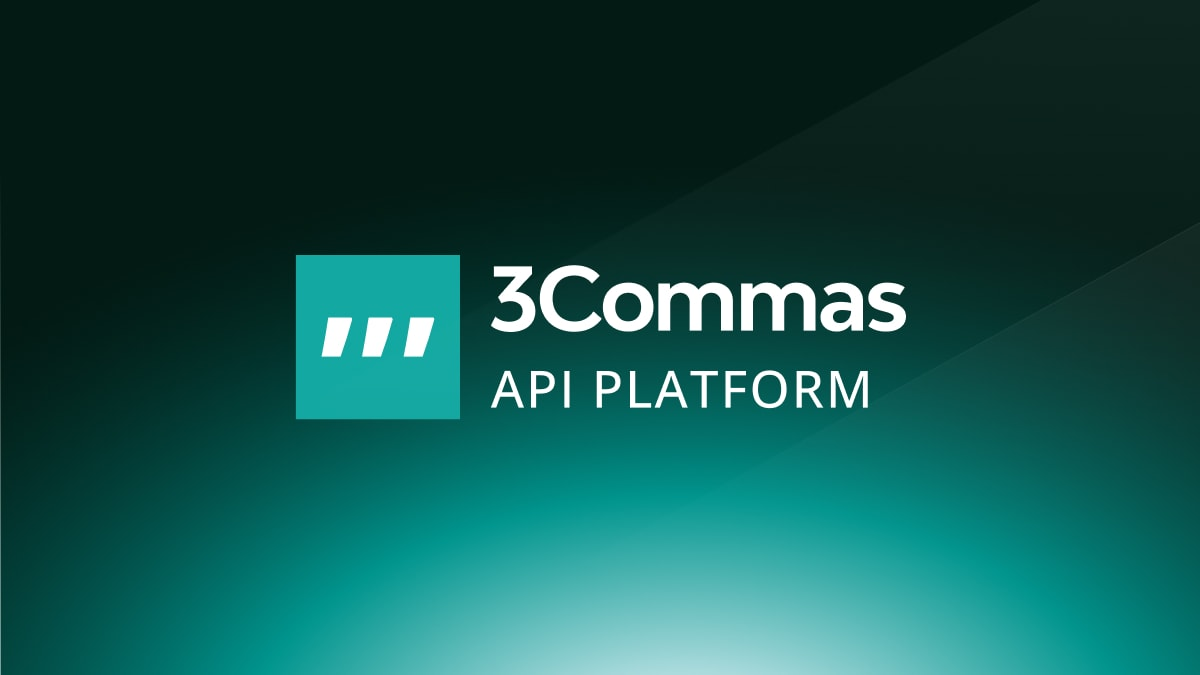
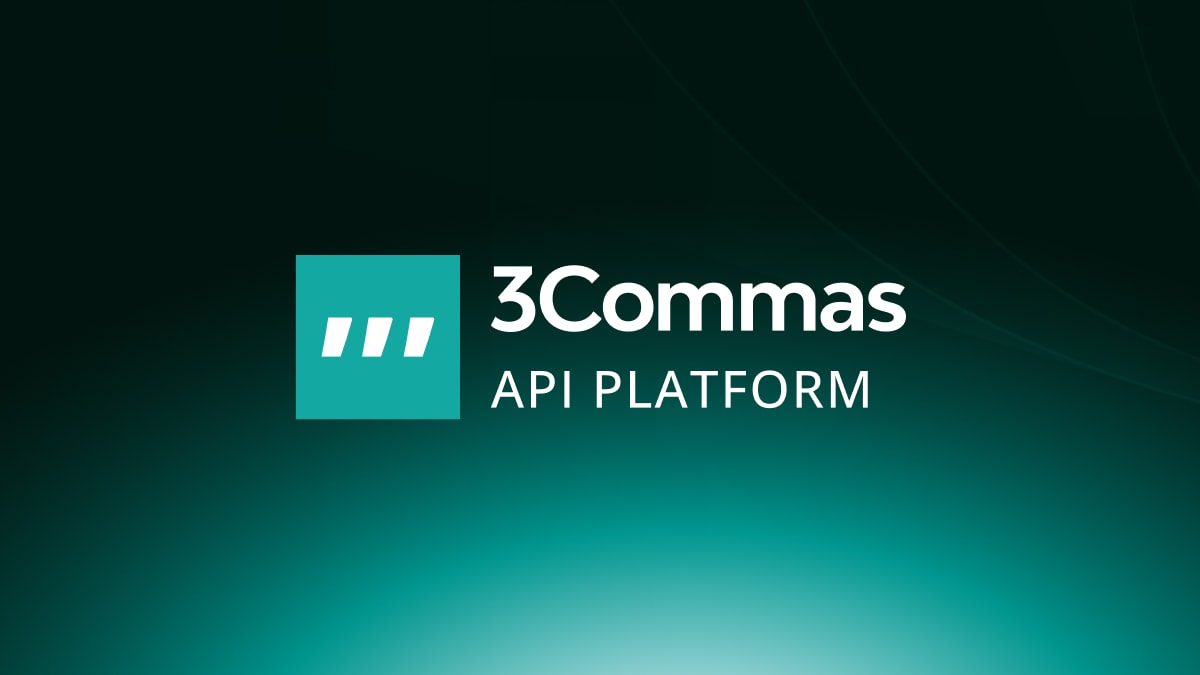
fix: katex vulnerability
* feat: change production url

* fix: apply active toc link highlighting on build

* fix: layout shift on scroll

* feat: update og image

* fix: layout shift on scroll

* fix: update titles

* fix: katex vulnerability

* feat: update og image

Changed region(s): [[0.3083, 0.7467, 0.8325, 1.0]]

diff --git a/src/components/ScrollStylingManager/ScrollStylingManager.tsx b/src/components/ScrollStylingManager/ScrollStylingManager.tsx
@@ -1,73 +1,120 @@
-import React, { useEffect } from "react";
+import { useEffect, useState } from "react";
+
+const excludedRoutes = [
+  // general-information
+  "/general-information",
+  "/general-information/overview",
+  "/general-information/security-and-permission-types",
+  "/general-information/how-to-start",
+  "/general-information/get-an-api-key",
+  "/general-information/how-to-create-an-rsa-key-pair",
+  "/general-information/signing-a-request-using-rsa",
+  "/general-information/signing-a-request-using-hmac-sha256",
+  "/general-information/generating-signature-hmac-sha256",
+  "/general-information/dates-and-times",
+  "/general-information/errors",
+  "/general-information/limits",
+  // account
+  "/account/",
+  "/account/account-entity",
+  // market-data
+  "/market-data/",
+  // dca-bot
+  "/dca-bot/",
+  "/dca-bot/dca-bot-entity",
+  // deals
+  "/dca-bot/deals/",
+  "/dca-bot/deals/deal-entity",
+  // grid-bot
+  "/grid-bot/",
+  "/grid-bot/grid-bot-entity",
+  // smart-trade
+  "/smart-trade/",
+  "/smart-trade/smart-trade-entity",
+  // trades
+  "/smart-trade/trades/",
+  "/smart-trade/trades/trade-entity",
+];
 
 const ScrollStylingManager = () => {
-  useEffect(() => {
-    const excludedRoutes = [
-      "/account/",
-      "/account/account-entity",
-      "/dca-bot",
-      "/dca-bot/deals/",
-      "/dca-bot/dca-bot-entity",
-      "/dca-bot/deals/deal-entity",
-      "/general-information",
-      "/general-information/dates-and-times",
-      "/general-information/errors",
-      "/general-information/get-an-api-key",
-      "/general-information/how-to-create-an-rsa-key-pair",
-      "/general-information/how-to-start",
-      "/general-information/overview",
-      "/general-information/limits",
-      "/general-information/security-and-permission-types",
-      "/general-information/signing-a-request-using-hmac-sha256",
-      "/general-information/signing-a-request-using-rsa",
-      "/grid-bot",
-      "/grid-bot/grid-bot-entity",
-      "/market-data",
-      "/smart-trade/",
-      "/smart-trade/smart-trade-entity",
-      "/smart-trade/trades/trade-entity",
-    ];
+  const [endpointEdge, setEndpointEdge] = useState<{
+    edge: number;
+    desktop: boolean;
+  } | null>(null);
 
+  useEffect(() => {
     const handleScroll = () => {
       const isExcluded = excludedRoutes.includes(window.location.pathname);
 
       const breadcrumbs = document.querySelector(".breadcrumbsContainer_Ar0W");
-      const container = document.querySelector(".container_eK_a");
+      const endpoint = document.querySelector(".container_eK_a");
+
       const h1 = document.querySelector(".theme-doc-markdown header h1");
       const header = document.querySelector(".theme-doc-markdown header");
 
-      if (window.scrollY >= 140) {
-        let placeholder = document.querySelector(".placeholder") as HTMLElement;
-        if (!placeholder) {
-          placeholder = document.createElement("div");
-          placeholder.className = "placeholder";
-          placeholder.style.height = "60px";
-          header.appendChild(placeholder);
+      if (
+        (endpoint && endpointEdge === null) ||
+        (endpointEdge !== null &&
+          window.innerWidth >= 1261 !== endpointEdge?.desktop)
+      ) {
+        const rect = endpoint.getBoundingClientRect();
+        setEndpointEdge({
+          edge: Math.max(rect.top - 15, 115),
+          desktop: window.innerWidth >= 1261,
+        });
+      }
+
+      if (
+        (endpointEdge !== null && window.scrollY >= endpointEdge.edge) ||
+        (isExcluded && window.scrollY >= 95)
+      ) {
+        let endpointPlaceholder = document.querySelector(
+          "#endpointPlaceholder",
+        ) as HTMLElement;
+        let headingPlaceholder = document.querySelector(
+          "#headingPlaceholder",
+        ) as HTMLElement;
+
+        if (
+          !endpointPlaceholder &&
+          endpoint &&
+          !isExcluded &&
+          window.innerWidth > 996
+        ) {
+          endpointPlaceholder = endpoint.cloneNode(true) as HTMLElement;
+          endpointPlaceholder.id = "endpointPlaceholder";
+          endpointPlaceholder.classList.add("scrolledClass");
+          header.appendChild(endpointPlaceholder);
         }
-        if (breadcrumbs) breadcrumbs.classList.add("scrolledClass");
-        if (h1) {
+
+        if (!headingPlaceholder && h1 && window.innerWidth > 996) {
+          headingPlaceholder = document.createElement("h1");
+          headingPlaceholder.id = "headingPlaceholder";
+          headingPlaceholder.textContent = h1.textContent || "";
+          headingPlaceholder.dataset.mock = "true";
+
           if (isExcluded) {
-            h1.classList.add("scrolledClassMain");
-            h1.classList.remove("scrolledClass");
-          } else {
-            h1.classList.add("scrolledClass");
-            h1.classList.remove("scrolledClassMain");
+            headingPlaceholder.classList.add("scrolledClassMain");
+            header.appendChild(headingPlaceholder);
+          } else if (!isExcluded && window.innerWidth >= 1920) {
+            headingPlaceholder.classList.add("scrolledClass");
+            header.appendChild(headingPlaceholder);
           }
         }
-        if (!isExcluded && container) {
-          container.classList.add("scrolledClass");
-        }
+
+        if (breadcrumbs) breadcrumbs.classList.add("scrolledClass");
       } else {
-        const placeholder = document.querySelector(".placeholder");
-        if (placeholder) {
-          placeholder.parentElement.removeChild(placeholder);
-        }
+        const endpointPlaceholder = document.querySelector(
+          "#endpointPlaceholder",
+        );
+        const headingPlaceholder = document.querySelector(
+          "#headingPlaceholder",
+        );
+
+        if (endpointPlaceholder) endpointPlaceholder.remove();
+        if (headingPlaceholder) headingPlaceholder.remove();
+
         if (breadcrumbs) breadcrumbs.classList.remove("scrolledClass");
-        if (h1) {
-          h1.classList.remove("scrolledClass");
-          h1.classList.remove("scrolledClassMain");
-        }
-        if (container) container.classList.remove("scrolledClass");
       }
     };
 
@@ -75,7 +122,7 @@ const ScrollStylingManager = () => {
     handleScroll();
 
     return () => window.removeEventListener("scroll", handleScroll);
-  }, []);
+  }, [endpointEdge, window.innerWidth]);
 
   return null;
 };

diff --git a/src/components/HomePageItem/HomePageWrapper.tsx b/src/components/HomePageItem/HomePageWrapper.tsx
@@ -16,7 +16,8 @@ const HomePageWrapper = () => {
       <HomePageItem
         data={{
           title: "DCA Bot",
-          description: "Automate trading on the exchange using a Dollar Cost Averaging (DCA) strategy.",
+          description:
+            "Automate trading on the exchange using a Dollar Cost Averaging (DCA) strategy.",
           icon: "dcaBot",
           link: "/dca-bot",
         }}
@@ -32,7 +33,8 @@ const HomePageWrapper = () => {
       <HomePageItem
         data={{
           title: "Grid Bot",
-          description: "Automate trading strategies by executing a series of buy and sell orders within predefined price ranges.",
+          description:
+            "Automate trading strategies by executing a series of buy and sell orders within predefined price ranges.",
           icon: "gridBot",
           link: "/grid-bot",
         }}
@@ -40,7 +42,8 @@ const HomePageWrapper = () => {
       <HomePageItem
         data={{
           title: "Market Data",
-          description: "Essential information about cryptocurrency exchanges, trading pairs, and market rules.",
+          description:
+            "Essential information about cryptocurrency exchanges, trading pairs, and market rules.",
           icon: "marketData",
           link: "/market-data",
         }}
@@ -48,7 +51,8 @@ const HomePageWrapper = () => {
       <HomePageItem
         data={{
           title: "Smart Trade",
-          description: "Open, manage, and close orders on the exchange with predefined conditions.",
+          description:
+            "Open, manage, and close orders on the exchange with predefined conditions.",
           icon: "smartTrade",
           link: "/smart-trade",
         }}

diff --git a/src/css/custom.css b/src/css/custom.css
@@ -443,11 +443,9 @@ body ul {
   list-style-image: url("/img/bullet.svg");
 }
 
-
 body ul {
   color: var(--text-content-color);
 }
-
 
 body ol {
   list-style: decimal;
@@ -554,6 +552,11 @@ a {
 code {
   font-size: var(--text-emphasis-size) !important;
   border: none;
+  box-shadow: none !important;
+}
+
+.codeBlockContainer_Ckt0 {
+  box-shadow: none !important;
 }
 
 strong {
@@ -580,15 +583,8 @@ main
     .hash-link
   ):not(.tocLink_wfFo) {
   text-decoration: underline !important;
-  color: var(--text-content-color);
-  font-weight: inherit;
-}
-
-main
-  a:not(.home-line):not(.breadcrumbs__link):not(.pagination-link):hover:not(
-    .hash-link
-  ):not(.tocLink_wfFo) {
   color: var(--ifm-heading-color) !important;
+  font-weight: inherit;
 }
 
 p {
@@ -960,6 +956,10 @@ li.menu__list-item > .category-title-hr.titled {
 }
 
 @media (max-width: 996px) {
+  .theme-doc-markdown header {
+    display: none;
+  }
+
   .navbar {
     height: 68px;
   }

diff --git a/src/components/Endpoint/Endpoint.tsx b/src/components/Endpoint/Endpoint.tsx
@@ -56,8 +56,10 @@ export function Endpoint({ url, method, permissions, endpointsList }: Props) {
           onOpenChange={handleOpenChange}
           content={copied ? "Copied!" : "Copy"}
         >
-
-          <span className={clsx(styles.url, method ? "" : styles.urlOnly)} onClick={() => handleCopy(url)}>
+          <span
+            className={clsx(styles.url, method ? "" : styles.urlOnly)}
+            onClick={() => handleCopy(url)}
+          >
             {url}
           </span>
         </Tooltip>
@@ -68,7 +70,10 @@ export function Endpoint({ url, method, permissions, endpointsList }: Props) {
   return (
     <div className={styles.root}>
       <div
-        className={clsx(styles.container, endpointsList && styles.endpointsListContainer)}
+        className={clsx(
+          styles.container,
+          endpointsList && styles.endpointsListContainer,
+        )}
       >
         {endpointContent}
       </div>

diff --git a/src/theme/CodeBlock/Content/styles.module.css b/src/theme/CodeBlock/Content/styles.module.css
@@ -19,7 +19,8 @@
   white-space: nowrap;
   color: var(--ifm-font-color-base);
   padding: 1rem var(--ifm-pre-padding);
-  font: var(--ifm-code-font-size) / var(--ifm-pre-line-height) var(--ifm-font-family-monospace);
+  font: var(--ifm-code-font-size) / var(--ifm-pre-line-height)
+    var(--ifm-font-family-monospace);
 }
 
 .codeBlockTitle div {
@@ -61,6 +62,7 @@
   float: left;
   min-width: 100%;
   padding: var(--ifm-pre-padding);
+  box-shadow: none !important;
 }
 
 .codeBlockLinesWithNumbering {

diff --git a/src/components/SignatureCalculator/SignatureCalculator.tsx b/src/components/SignatureCalculator/SignatureCalculator.tsx
@@ -83,7 +83,7 @@ export const SignatureCalculator = () => {
           ? headersObj
           : `No signature generated yet. Please fill out the form and generate one.`}
       </CodeBlock>
-      
+
       <Informer variant="warning">
         You can either pass Search Params or Request Body
       </Informer>

diff --git a/src/components/Endpoint/NoContentEndpoint.module.css b/src/components/Endpoint/NoContentEndpoint.module.css
@@ -1,6 +1,7 @@
 .container {
   position: relative;
-  font: var(--ifm-code-font-size) / var(--ifm-pre-line-height) var(--ifm-font-family-monospace);
+  font: var(--ifm-code-font-size) / var(--ifm-pre-line-height)
+    var(--ifm-font-family-monospace);
 }
 
 .codeBlockTitle {

diff --git a/src/components/HomePageContainer/HomePageContainer.tsx b/src/components/HomePageContainer/HomePageContainer.tsx
@@ -6,7 +6,5 @@ type Props = {
 };
 
 export default function HomePageContainer({ children }: Props) {
-  return <div className={styles.homePageContainer}>
-    {children}
-  </div>;
+  return <div className={styles.homePageContainer}>{children}</div>;
 }

diff --git a/src/components/HomePageItem/HomePageItem.module.css b/src/components/HomePageItem/HomePageItem.module.css
@@ -4,7 +4,6 @@
   cursor: pointer;
   text-decoration: none;
 
-
   &:hover {
     .homePageItemDescription {
       color: var(--ifm-heading-color);

diff --git a/src/theme/DocItem/TOC/Desktop/styles.module.css b/src/theme/DocItem/TOC/Desktop/styles.module.css
@@ -43,7 +43,7 @@
   }
 
   .tocLinkActive {
-    color: var(--ifm-link-color);
+    color: var(--ifm-link-color) !important;
   }
 
   ul {

diff --git a/README.md b/README.md
@@ -14,7 +14,7 @@ Visit the site to explore guides, API references, examples, and more.
 
 - **/docs**: Contains all MDX files used by Docusaurus.
 - **/static**: Holds static assets (images, files, etc.) referenced in the documentation.
-- **docusaurus.config.js**: Configuration file for Docusaurus.
+- **docusaurus.config.ts**: Configuration file for Docusaurus.
 
 ## Getting Started Locally
 
